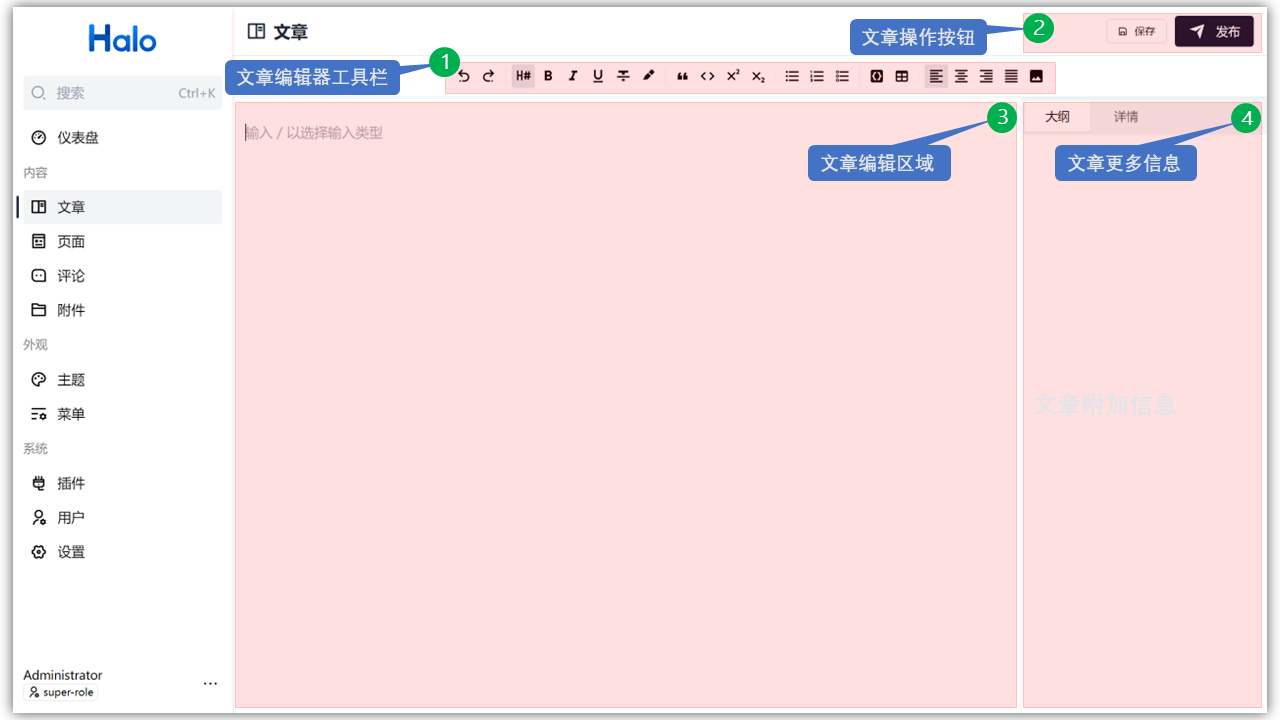
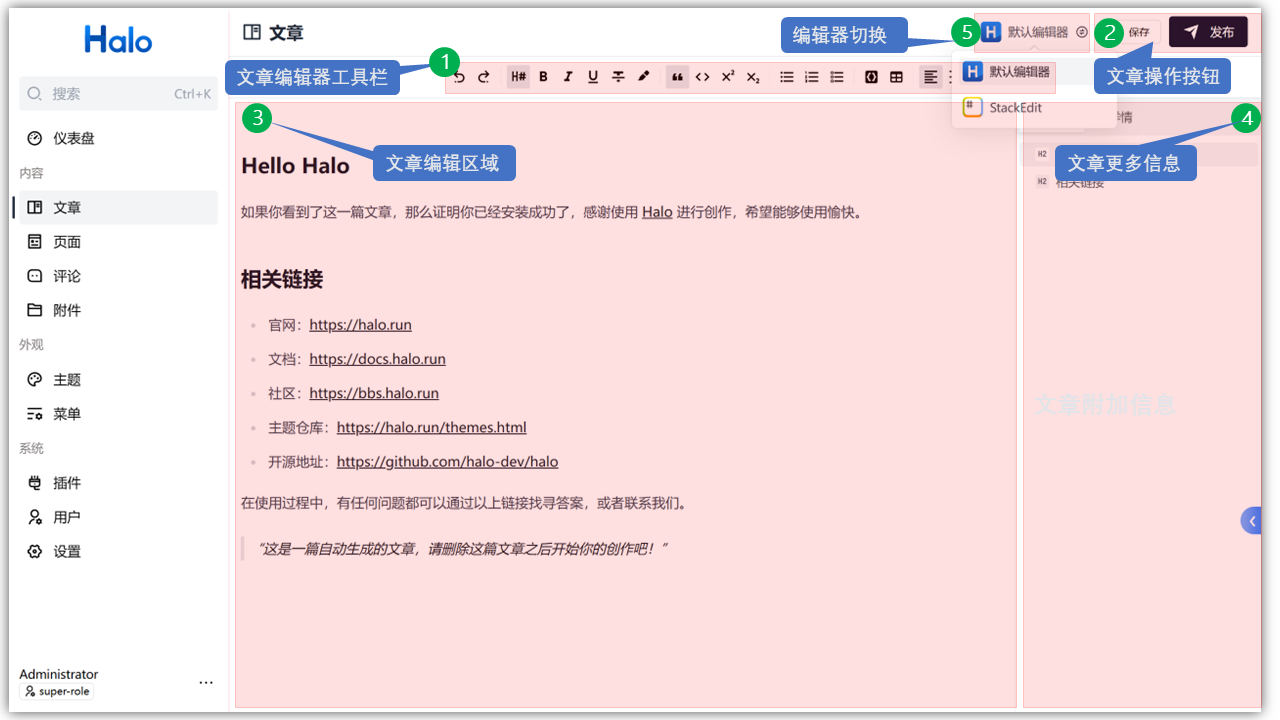
修改文章编辑切换编辑器相关内容

diff --git a/docs/user-guide/posts.md b/docs/user-guide/posts.md
@@ -11,9 +11,6 @@ description: 文章管理相关功能说明
 仪表盘中需要存在快捷访问组件（默认存在）。关于仪表盘组件配置，请参考《用户指南-仪表盘》章节。
 :::
 2. 通过左侧导航栏进入文章页面，点击右上角的新建按钮
-:::info
-如果安装并启用了额外的编辑器插件，点击新建文章按钮后还需要选择所使用的编辑器。以下文档内容均使用默认编辑器进行说明。
-:::
 
 进入到如下页面后，你就可以开始编辑自己的文章内容了：
 
@@ -22,7 +19,9 @@ description: 文章管理相关功能说明
 在文章编辑器中输入你想展现的内容，你可以通过编辑器上方的工具栏调整指定内容的格式或者插入图片、音视频等各类附件。编辑器还提供了各种快捷指令，通过输入 `/` 字符便可以快速选择常用的输入类型，不需要操作鼠标便可以轻松完成文章排版。
 
 :::info
-编辑器详细使用说明请参考[《用户指南-编辑器》](./posts.md)
+编辑器详细使用说明请参考[《用户指南-编辑器》](./posts.md)。
+
+如果安装并启用了额外的编辑器插件，可以点击右上角切换使用不同的编辑器。以下文档内容均使用默认编辑器进行说明。
 :::
 
 在页面右侧你可以看到文章的大纲结构及字词数等详细信息。一切满意之后，你可以选择暂存这篇文章的草稿或直接将文章进行发布。
